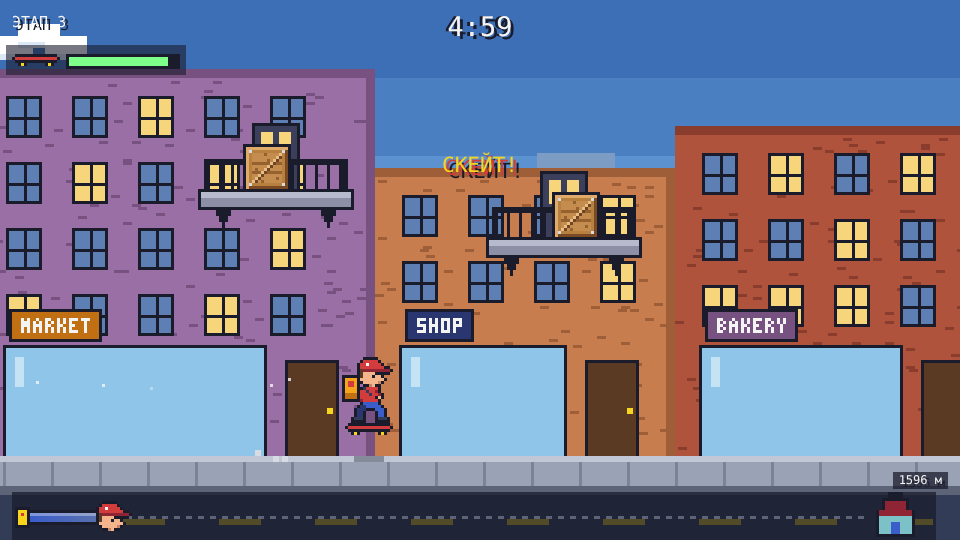
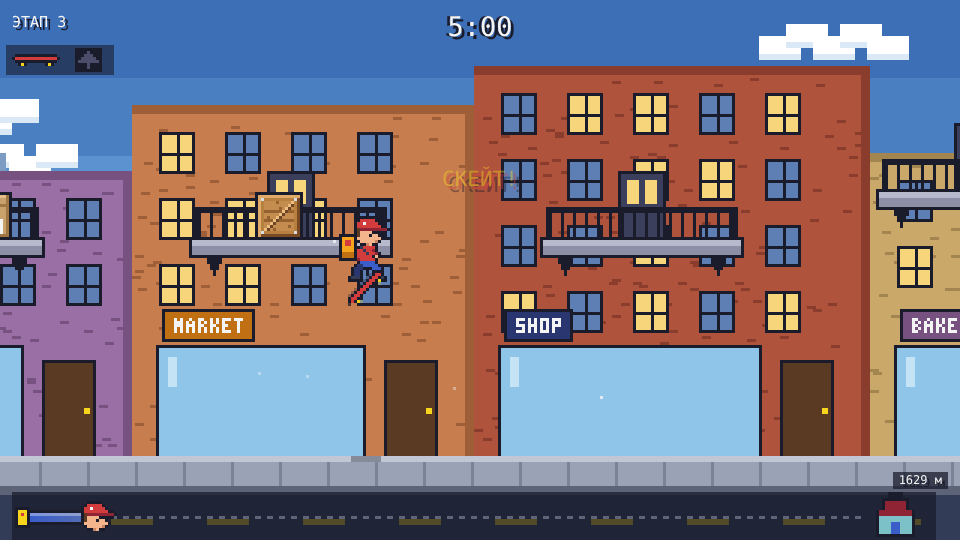
Endless skateboard, mid-air double jump with a kickflip, board drops to the street when you step up
Claude-Session: https://claude.ai/code/session_015jkYj5TZRwZghbMqW5hfRf

diff --git a/js/game.js b/js/game.js
@@ -22,7 +22,8 @@ const PHYS = {
 };
 
 // Skateboard tuning: faster, rolls further, takes a moment to push up to speed.
-const BOARD = { time: 12, maxSpeed: 175, accel: 520, friction: 240 };
+// The board lasts until you lose it; once per jump you can kick off the air again.
+const BOARD = { maxSpeed: 175, accel: 520, friction: 240, doubleJump: 0.95 };
 
 const canvas = document.getElementById('game');
 const ctx = canvas.getContext('2d');
@@ -972,7 +973,9 @@ const player = {
   lastPose: -1,  // walk pose on the previous step, for footstep timing
   stun: 0,       // seconds without control after bumping into someone
   invuln: 0,     // seconds of blinking safety after a bump or fall
-  board: 0,      // seconds of skateboard left (0 = on foot)
+  board: 0,      // 1 while riding the skateboard
+  doubleUsed: false, // the board's mid-air jump has been spent
+  flip: 0,       // seconds left of the kickflip animation
 };
 
 let clock = 0;
@@ -1003,10 +1006,6 @@ function update(dt) {
   const onBoard = p.board > 0;
   const top = onBoard ? BOARD.maxSpeed : PHYS.maxSpeed;
   const maxSpeed = inPuddle ? top * (onBoard ? 0.7 : 0.5) : top;
-  if (onBoard) {
-    p.board -= dt;
-    if (p.board <= 0) loseBoard('time');
-  }
   if (inPuddle && Math.abs(p.vx) > 20 && Math.random() < 0.5) splash(feetX, GROUND_Y);
 
   // Braking hard against your own momentum
@@ -1041,7 +1040,17 @@ function update(dt) {
     jumpPressedAt = -1;
     puff(p.x + 9, p.y + 24, 4);
     if (p.board > 0) Sound.ollie(); else Sound.jump();
+  } else if (wantsJump && p.board > 0 && !p.grounded && !p.doubleUsed && p.stun <= 0) {
+    // Double jump on the skateboard: kick off the air once, with a kickflip
+    p.vy = -PHYS.jumpSpeed * BOARD.doubleJump;
+    p.doubleUsed = true;
+    p.flip = 0.3;
+    jumpPressedAt = -1;
+    puff(p.x + 9, p.y + 24, 3);
+    Sound.kickflip();
   }
+  if (p.grounded) p.doubleUsed = false;
+  p.flip = Math.max(0, p.flip - dt);
   if (p.vy >= 0) p.bounced = false;
   if (!keys.jump && !p.bounced && p.vy < -PHYS.jumpSpeed * PHYS.jumpCut) p.vy = -PHYS.jumpSpeed * PHYS.jumpCut;
 
@@ -1097,7 +1106,7 @@ function update(dt) {
   }
   // The board only rolls on the street: land on boxes, an awning or a balcony
   // and you step off it there.
-  if (p.board > 0 && p.grounded && !wasGrounded && p.y + p.oy + p.h < GROUND_Y - 1) loseBoard('step');
+  if (p.board > 0 && p.grounded && p.y + p.oy + p.h < GROUND_Y - 1) loseBoard('step');
   updateBoards(dt);
   p.landTime = Math.max(0, p.landTime - dt);
 
@@ -1201,51 +1210,72 @@ function fellInPit() {
 
 // ---------- Skateboard ----------
 
-const boards = [];        // pickups: { x, taken }
-const flyingBoards = [];  // boards tumbling away after a crash or at the end
+const boards = [];        // pickups lying on the street: { x, taken, armed }
+const flyingBoards = [];  // boards falling or tumbling after you lose them
 function resetBoards() {
   boards.length = 0;
-  for (const x of boardSpots) boards.push({ x, taken: false });
+  for (const x of boardSpots) boards.push({ x, taken: false, armed: true });
   flyingBoards.length = 0;
   player.board = 0;
 }
 
+// Off the board. It drops to the street (or tumbles there after a crash) and
+// lies there to be picked up again, unless it falls into a hole.
 function loseBoard(reason) {
   const p = player;
-  if (p.board <= 0 && reason !== 'time') return;
+  if (p.board <= 0) return;
   p.board = 0;
+  p.flip = 0;
+  const vx = p.vx;
   // Back to walking pace
   p.vx = Math.max(-PHYS.maxSpeed, Math.min(PHYS.maxSpeed, p.vx));
+  const crash = reason === 'crash';
   flyingBoards.push({
-    x: p.x + 1, y: p.y + 21, vx: (reason === 'crash' ? -1 : 1) * p.facing * (40 + Math.random() * 40),
-    vy: -90 - Math.random() * 60, spin: 0, life: 1.2,
+    x: p.x + 1, y: p.y + 21,
+    vx: crash ? -p.facing * (40 + Math.random() * 40) : reason === 'off' ? vx * 0.5 : 0,
+    vy: crash ? -90 - Math.random() * 60 : reason === 'off' ? -40 : 0,
+    spin: 0, spinning: crash,
   });
-  Sound.boardLose(reason === 'crash');
-  if (reason === 'crash') toast('БАХ!');
+  Sound.boardLose(crash);
+  if (crash) toast('БАХ!');
+  else if (reason === 'step') toast('СКЕЙТ ВНИЗУ');
+}
+
+function overGround(x) {
+  return !pits.some((pt) => x + 12 > pt.x && x + 4 < pt.x + pt.w) &&
+    !crates.some((c) => c.y === 136 && x < c.x + 16 && x + 16 > c.x);
 }
 
 function updateBoards(dt) {
   const p = player;
-  if (p.board <= 0 && !finished) {
-    for (const b of boards) {
-      if (b.taken) continue;
-      if (p.x + p.ox < b.x + 16 && p.x + p.ox + p.w > b.x && p.y + p.oy + p.h > GROUND_Y - 8 && p.y + p.oy + p.h <= GROUND_Y + 1) {
-        b.taken = true;
-        p.board = BOARD.time;
-        toast('СКЕЙТ!');
-        Sound.boardGet();
-        break;
-      }
+  const px0 = p.x + p.ox;
+  const onStreet = p.y + p.oy + p.h > GROUND_Y - 8 && p.y + p.oy + p.h <= GROUND_Y + 1;
+  for (const b of boards) {
+    if (b.taken) continue;
+    const touching = px0 < b.x + 16 && px0 + p.w > b.x && onStreet;
+    // A board you just stepped off only counts once you have moved away from it
+    if (!touching) b.armed = true;
+    if (touching && b.armed && p.board <= 0 && !finished) {
+      b.taken = true;
+      p.board = 1;
+      p.doubleUsed = !p.grounded;
+      toast('СКЕЙТ!');
+      Sound.boardGet();
     }
   }
   for (let i = flyingBoards.length - 1; i >= 0; i--) {
     const f = flyingBoards[i];
-    f.life -= dt;
     f.vy += 600 * dt;
     f.x += f.vx * dt;
     f.y += f.vy * dt;
-    f.spin += dt * 14;
-    if (f.life <= 0) flyingBoards.splice(i, 1);
+    if (f.spinning) f.spin += dt * 14;
+    // Reached the pavement: it lies there again
+    if (f.vy > 0 && f.y >= GROUND_Y - 4 && overGround(f.x)) {
+      boards.push({ x: f.x, taken: false, armed: false });
+      flyingBoards.splice(i, 1);
+    } else if (f.y > VIEW_H + 20) {
+      flyingBoards.splice(i, 1); // lost down a hole
+    }
   }
   Sound.roll(p.board > 0 && p.grounded ? Math.abs(p.vx) / BOARD.maxSpeed : 0);
 }
@@ -1268,28 +1298,33 @@ function drawBoards(cx) {
       ctx.fillRect(x + 12, GROUND_Y - 6, 1, 1);
     }
   }
-  for (const f of flyingBoards) {
-    ctx.save();
-    ctx.translate(Math.round(f.x - cx) + 8, Math.round(f.y) + 2);
-    ctx.rotate(Math.round(f.spin * 4 / Math.PI) * Math.PI / 4); // in 45° steps, keeps the pixel look
-    ctx.drawImage(SKATEBOARD, -8, -2);
-    ctx.restore();
-  }
+  for (const f of flyingBoards) drawTurnedBoard(Math.round(f.x - cx) + 8, Math.round(f.y) + 2, f.spin);
 }
 
-// Skateboard time left: a little board and a bar under the stage name
-function drawBoardTimer() {
-  const t = player.board;
-  if (t <= 0) return;
-  const low = t < 3;
-  if (low && Math.floor(clock * 8) % 2) return;
+// The board turned in 45° steps, which keeps the pixel look
+function drawTurnedBoard(cx, cy, angle) {
+  ctx.save();
+  ctx.translate(cx, cy);
+  ctx.rotate(Math.round(angle * 4 / Math.PI) * Math.PI / 4);
+  ctx.drawImage(SKATEBOARD, -8, -2);
+  ctx.restore();
+}
+
+// While riding: a little board under the stage name, and an arrow that is lit
+// while the mid-air double jump is still available.
+function drawBoardHud() {
+  if (player.board <= 0) return;
   ctx.fillStyle = 'rgba(26,28,44,0.6)';
-  ctx.fillRect(2, 15, 60, 10);
+  ctx.fillRect(2, 15, 36, 10);
   ctx.drawImage(SKATEBOARD, 4, 18);
+  const ready = !player.doubleUsed;
   ctx.fillStyle = '#1a1c2c';
-  ctx.fillRect(22, 18, 38, 5);
-  ctx.fillStyle = low ? '#ff5a4a' : '#7dff8a';
-  ctx.fillRect(23, 19, Math.round(36 * t / BOARD.time), 3);
+  ctx.fillRect(25, 16, 9, 8);
+  ctx.fillStyle = ready ? '#7dff8a' : '#4a4e6a';
+  ctx.fillRect(29, 17, 1, 6);
+  ctx.fillRect(28, 18, 3, 1);
+  ctx.fillRect(27, 19, 5, 1);
+  ctx.fillRect(26, 20, 7, 1);
 }
 
 // ---------- Checkpoint ----------
@@ -1699,7 +1734,10 @@ function render() {
   } else {
     ctx.drawImage(img, px, py);
   }
-  if (riding && !blinkOut) ctx.drawImage(SKATEBOARD, px + 1, py + 23);
+  if (riding && !blinkOut) {
+    if (player.flip > 0) drawTurnedBoard(px + 9, py + 25, (0.3 - player.flip) / 0.3 * Math.PI * 2);
+    else ctx.drawImage(SKATEBOARD, px + 1, py + 23);
+  }
 
   for (const s of steam) {
     ctx.fillStyle = s.life > 0.5 ? 'rgba(244,244,244,0.8)' : 'rgba(244,244,244,0.4)';
@@ -1712,7 +1750,7 @@ function render() {
   }
 
   drawProgressBar();
-  drawBoardTimer();
+  drawBoardHud();
 }
 
 // ---------- Loop and scaling ----------

diff --git a/index.html b/index.html
@@ -7,7 +7,7 @@
   <link rel="preconnect" href="https://fonts.googleapis.com">
   <link rel="preconnect" href="https://fonts.gstatic.com" crossorigin>
   <link href="https://fonts.googleapis.com/css2?family=Press+Start+2P&display=swap" rel="stylesheet">
-  <link rel="stylesheet" href="style.css?v=17">
+  <link rel="stylesheet" href="style.css?v=18">
 </head>
 <body>
   <main id="stage">
@@ -24,7 +24,7 @@
 
       <div id="title" class="title">
         <h1>ДОСТАВКА<br>ЗА 5 МИНУТ</h1>
-        <p class="sub">Отнеси пиццу в дом №42 в конце улицы.<br>Собирай часики: красные +5 сек, золотые +15 сек.<br>Найди скейт — он разгоняет!</p>
+        <p class="sub">Отнеси пиццу в дом №42 в конце улицы.<br>Собирай часики: красные +5 сек, золотые +15 сек.<br>Найди скейт — он разгоняет, а в прыжке на нём можно прыгнуть ещё раз!</p>
         <p class="blink">НАЖМИ ЛЮБУЮ КЛАВИШУ</p>
         <p class="hint">← → ходить · ПРОБЕЛ прыжок · ↓ сойти со скейта · R на базу · M звук · N музыка</p>
       </div>
@@ -47,8 +47,8 @@
     <button class="pad-jump" data-action="jump" aria-label="Прыжок">A</button>
   </div>
 
-  <script src="js/audio.js?v=17"></script>
-  <script src="js/sprites.js?v=17"></script>
-  <script src="js/game.js?v=17"></script>
+  <script src="js/audio.js?v=18"></script>
+  <script src="js/sprites.js?v=18"></script>
+  <script src="js/game.js?v=18"></script>
 </body>
 </html>

diff --git a/js/audio.js b/js/audio.js
@@ -269,6 +269,15 @@ const Sound = (() => {
     osc('pulse', 300, t + 0.02, 0.14, 0.05, sfxBus, 800);
   }
 
+  // Kickflip in the air: a quick whirring sweep up
+  function kickflip() {
+    if (!init() || muted) return;
+    const t = ctx.currentTime;
+    osc('pulse', 400, t, 0.2, 0.06, sfxBus, 1400);
+    osc('square', 600, t + 0.05, 0.12, 0.03, sfxBus, 1800);
+    hiss(t, 0.05, 0.2, sfxBus, 'highpass', 4000);
+  }
+
   function boardLand() {
     if (!init() || muted) return;
     const t = ctx.currentTime;
@@ -318,7 +327,7 @@ const Sound = (() => {
 
   return {
     beep, step, jump, land, startMusic, stopMusic, setUrgency, tick, pickup, fanfare, fail,
-    roll, ollie, boardLand, boardGet, boardLose,
+    roll, ollie, kickflip, boardLand, boardGet, boardLose,
     toggleMute() { setMuted(!muted); return !muted; },
     toggleMusic() { setMusic(!musicOn); return musicOn; },
   };

diff --git a/README.md b/README.md
@@ -59,8 +59,10 @@
 - [x] **Этап 3.** Скейтборд.
   - Примерно каждые 2 км пути ровная дорожка, а в её начале лежит скейт с зелёной стрелкой. Наехал — встал на доску.
   - На скейте курьер в 1,7 раза быстрее: отталкивается ногой, катится по инерции, прыгает олли через ямы, лужи и низкие ящики. Камера смотрит дальше вперёд, колёса шуршат громче на скорости, олли щёлкает.
-  - Скейт работает 12 секунд, шкала в левом верхнем углу; за 3 секунды до конца мигает красным.
-  - Доску теряешь, если: врезался в ящик на скорости («БАХ!»), столкнулся с прохожим, упал в яму, приземлился выше тротуара (на ящики, навес, балкон — скейт ездит только по улице) или сошёл сам клавишей ↓.
+  - Скейт не кончается: едешь, пока не потеряешь доску.
+  - **Двойной прыжок:** в прыжке на скейте можно один раз оттолкнуться ещё раз, с кикфлипом. Стрелка рядом со значком скейта в левом верхнем углу горит, пока двойной прыжок доступен.
+  - Доску теряешь, если врезался в ящик на скорости («БАХ!»), столкнулся с прохожим, упал в яму или сошёл сам клавишей ↓.
+  - Скейт ездит только по улице: встал на ящики, навес или балкон — доска падает на тротуар («СКЕЙТ ВНИЗУ») и лежит там, спустись и подбери. Улетевшая после аварии доска тоже ложится на тротуар, пропадает она только в яме.
 - [ ] Этап 4. …
 
 ## Файлы
